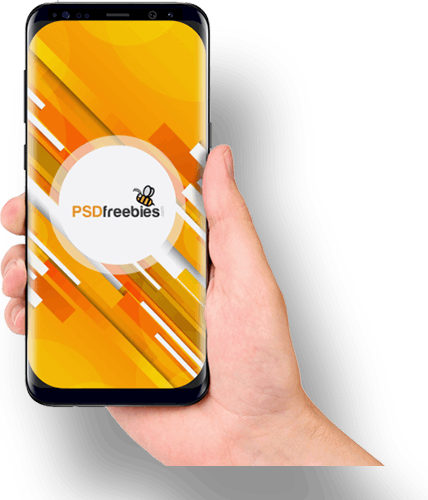
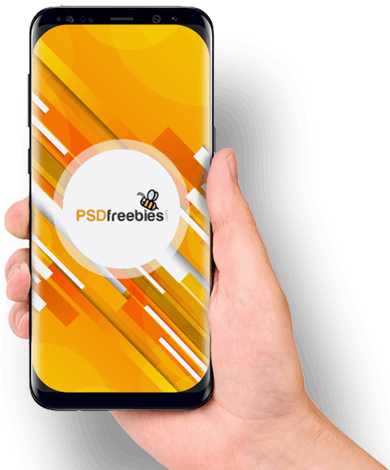
правки

diff --git a/CabHub/css/style.css b/CabHub/css/style.css
@@ -593,6 +593,10 @@ input[type="tel"]::placeholder {
 	margin-right: 20px;
 }
 
+.stores-bg img {
+	max-width: 100%;
+}
+
 .app-mockup {
 	justify-content: flex-end;
 	margin-top: -180px;
@@ -928,7 +932,46 @@ footer {
 }
 
 @media screen and (max-width:850px) {
+	.container {
+		margin-left: 50px;
+		margin-right: 50px;
+	}
+
+	.main-navigation {
+		margin-top: 56px;
+	}
+
+	.site-navigation li {
+		margin: 0 10px;
+	}
+
+	.site-navigation li a {
+		font-size: 15px;
+	}
+
+	.about-app {
+		margin-bottom: -57px;
+	}
+
+	.about {
+		margin-bottom: 60px;
+	}
 	
+	.about h1 {
+		font-size: 30px;
+	}
+	
+	.about h2 {
+		font-size: 35px;
+	}
+	
+	.about p {
+		font-size: 16px;
+	}
+	
+	.booking-form h1 {
+		font-size: 30px;
+	}
 }
 
 @media screen and (max-width:480px) {
@@ -938,8 +981,8 @@ footer {
 		height: 40px;
 		/*background-color: #4b4b4b;*/
 		position: relative;
-		margin-top: 40px;
-		margin-right: 40px;
+		margin-top: 30px;
+		margin-right: 30px;
 	}
 
 	label {
@@ -998,6 +1041,7 @@ footer {
 		display: block;
 		width: 100%;
 		text-align: right;
+		padding-top: 5px;
 	}
 
 	.site-navigation li a:hover,
@@ -1035,6 +1079,310 @@ footer {
 
 	#check-menu:checked ~ .cuatro {
 		display: none;
+	}
+	/*----------*/
+	.main-header-logo {
+		font-size: 30px;
+		margin-top: 30px;
+	}
+
+	.main-header-logo p {
+		font-size: 10px;
+	}
+
+	.main-hero h1 {
+		font-size: 30px;
+	}
+
+	p.phone-number {
+		font-size: 50px;
+		margin-top: 50px;
+	}
+
+	p.link a {
+		letter-spacing: 12px;
+	}
+
+	.main-taxi {
+		margin: 40px 15px 0;
+	}
+
+	.wrapper {
+		margin-bottom: -80px;
+	}
+
+	.container {
+		margin-left: 30px;
+		margin-right: 30px;
+	}
+	
+	.about-and-booking-form .container {
+		display: block;
+	}
+	
+	.about {
+		max-width: 100%;
+	}
+	
+	.about h1 {
+		font-size: 30px;
+		padding-top: 60px;
+	}
+	
+	.about h2 {
+		font-size: 35px;
+		margin-bottom: 15px;
+	}
+	
+	.about p {
+		font-size: 16px;
+		padding-right: 0;
+		padding-bottom: 0;
+	}
+
+	.about a {
+		font-size: 24px;
+		padding: 9px 20px;
+		border-radius: 10px;
+	}
+	
+	.booking-form {
+		margin-left: 0;
+		padding-bottom: 30px;
+	}
+	
+	.booking-form h1 {
+		font-size: 30px;
+		padding:20px 0 20px 34px;
+	}
+	
+	input[type="submit"] {
+		font-size: 24px;
+		padding: 9px 20px;
+		border-radius: 10px;
+	}
+
+	.tariffs h1 {
+		font-size: 35px;
+		padding-top: 20px;
+	}
+	
+	.tariffs h1 span {
+		font-size: 30px;
+	}
+	
+	.tariffs img {
+		max-width: 100%;
+	}
+	
+	.choose-tariff {
+		display: block;
+	}
+	
+	.choose-tariff li {
+		width: 100%;
+		margin-bottom: 30px;
+	}
+
+	.choose-tariff li:last-child {
+		padding-bottom: 30px;
+	}
+	
+	.yellow-cab {
+		margin-bottom: -100px;
+	}
+	
+	.tariff-wrapper h2 {
+		font-size: 30px;
+		padding-top: 80px;
+	}
+	
+	.tariff-wrapper p {
+		font-size: 16px;
+		padding: 0 20px 24px;
+	}
+	
+	.tariff-wrapper p.price {
+		font-size: 34px;
+		margin-top: 0;
+		margin-bottom: 20px;
+	}
+	
+	.tariff-wrapper a {
+		font-size: 24px;
+		padding: 9px 20px;
+		border-radius: 10px;
+	}
+
+	.advantages h1 {
+		font-size: 35px;
+		padding-top: 30px;
+		padding-bottom: 10px;
+	}
+	
+	.advantages h1 span {
+		font-size: 30px;
+	}
+	
+	.features {
+		list-style: none;
+		display: block;
+		padding-left: 0;
+	}
+	
+	.features h3 {
+		font-size: 20px;
+	}
+	
+	.features p {
+		font-size: 16px;
+	}
+	
+	.features li {
+		width: 100%;
+		padding-bottom: 20px;
+	}
+	
+	.advantages a {
+		font-size: 24px;
+		padding: 9px 20px;
+		border-radius: 10px;
+	}
+	
+	.adv-a {
+		text-align: center;
+		padding-bottom: 50px;
+	}
+
+	.about-app {
+		margin-top: -30px;
+		margin-bottom: 0;
+	}
+	
+	.about-app h1 {
+		font-size: 35px;
+		padding-top: 30px;
+	}
+	
+	.about-app h1 span {
+		font-size: 30px;
+	}
+	
+	.about-app h3 {
+		font-size: 20px;
+		padding-top: 0;
+	}
+	
+	.about-app p {
+		font-size: 16px;
+	}
+	
+	.app-description {
+		width: 100%;
+	}
+	
+	.app-description p {
+		padding-right: 0;
+	}
+	
+	.about-wrapper {
+		display: flex;
+		flex-wrap: wrap;
+	}
+	
+	.app-mockup {
+		margin-top: 0;
+	}
+
+	.app-mockup img {
+		margin-top: 20px;
+		margin-bottom: -32px;
+	}
+
+	.testimonials {
+		margin-top: -27px;
+	}
+	
+	.testimonials h1 {
+		font-size: 35px;
+		padding-top: 40px;
+		margin-bottom: 50px;
+	}
+	
+	.testimonials h1 span {
+		font-size: 30px;
+	}
+	
+	.testimonials p {
+		font-size: 16px;
+	}
+	
+	.testimonials b {
+		font-size: 20px;
+	}
+	
+	.feedback {
+		display: block;
+		padding-bottom: 50px;
+	}
+	
+	.feedback-frame {
+		padding: 40px 70px 30px 50px;
+		margin: 0 0 20px;
+	}
+	
+	.feedback-frame:first-child {
+		margin-right: 0;
+	}
+	
+	.feedback-frame-person img {
+		max-width: 100%;
+		float: left;
+		margin-right: 20px;
+	}
+
+	.cta h2 {
+		font-size: 30px;
+	}
+
+	.main-footer-list {
+		display: flex;
+		flex-wrap: wrap;
+	}
+
+	.main-footer-list>li {
+		max-width: 100% /*350px;*/
+		margin-right: 0;
+	}
+
+	.main-footer-list>li:last-child {
+		margin-right: 0;
+	}
+
+	.main-footer-list h2 {
+		font-size: 20px;
+		border-bottom: 6px solid #ffc61a;
+		padding-top: 30px;
+		padding-bottom: 20px;
+	}
+
+	.main-footer-list p {
+		font-size: 16px;
+	}
+
+	.users-table a {
+		font-size: 18px;
+	}
+
+	.contact-icon {
+		float: left;
+		margin-top: 5px;
+		margin-left: 5px;
+		margin-right: 15px;
+	}
+
+	.contact-us a {
+		font-size: 18px;
 	}
 }
 

diff --git a/CabHub/index.html b/CabHub/index.html
@@ -237,7 +237,7 @@
                 </ul>
             </div>
             <div class="app-mockup">
-                <img src="img/phone-hand.png">
+                <img src="img/phone-hand-old.png">
             </div>
             </div>
             </div>
